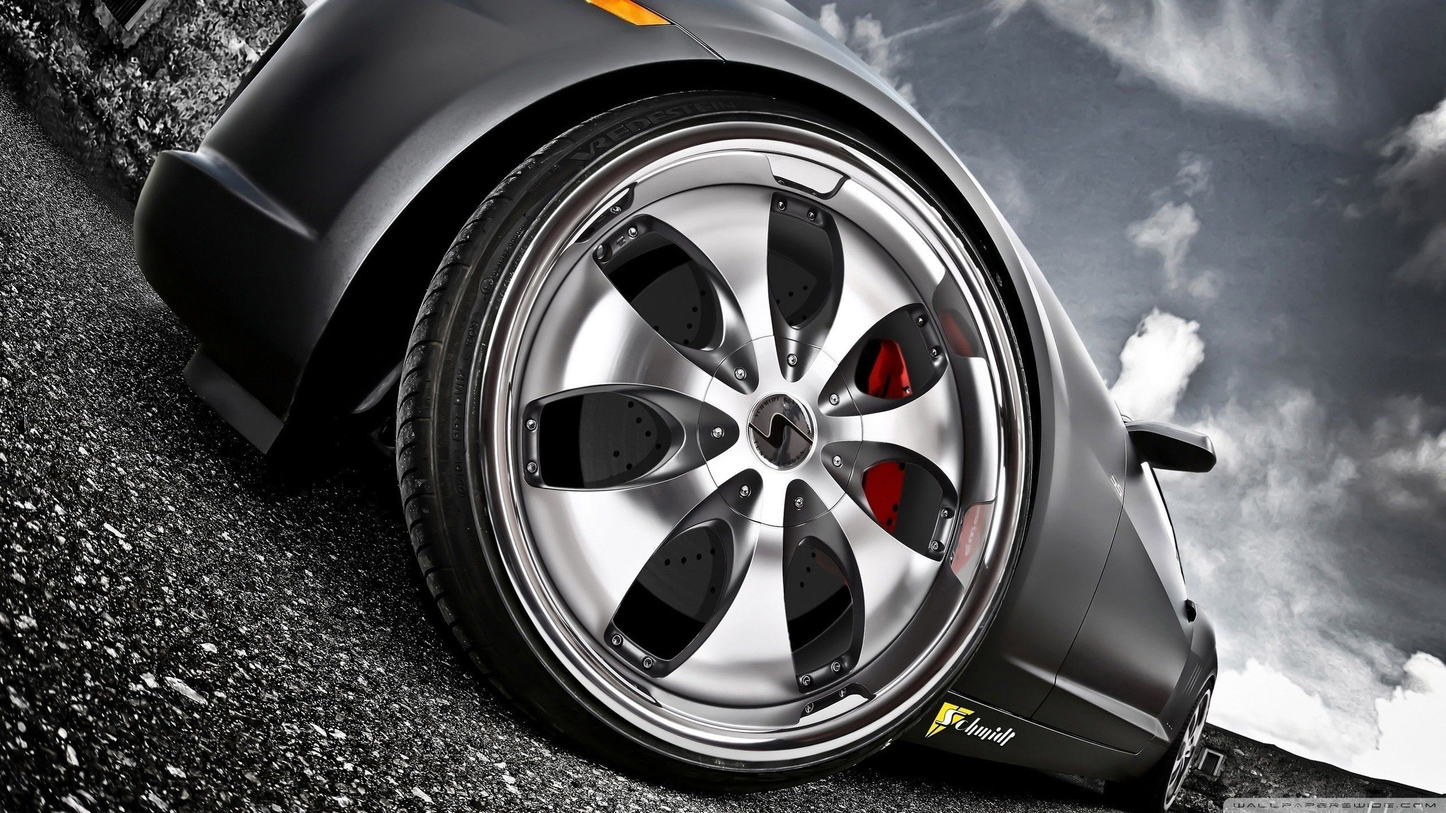
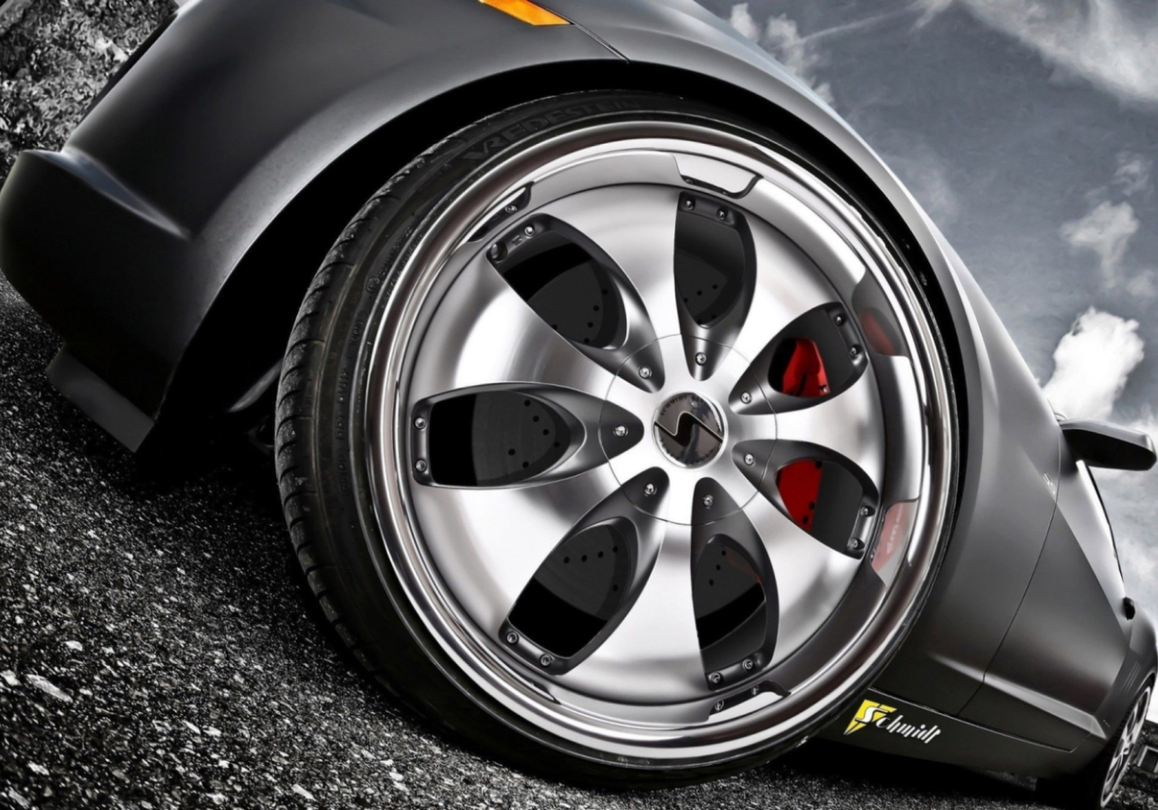
js jav

diff --git a/js/banner.js b/js/banner.js
@@ -3,13 +3,16 @@ const leftBtn = document.getElementById("left");
 const rightBtn = document.getElementById("right");
 
 const img = document.querySelectorAll("#imgs img");
-
+const container=document.getElementById("carousel")
 let idx = 0;
+let width = 0;
+let width2 = 0;
 
 let interval = setInterval(run, 2000);
 
 function run() {
   idx++;
+  width2++;
   changeImage();
 }
 

diff --git a/style.css b/style.css
@@ -199,16 +199,16 @@ ul, li{
 
 
 #carimg{
-  width: 100%;
-  height: 100%;
+  max-height: calc(100%);
+  width: calc(100%);
   object-fit: cover;
   margin: auto auto;
 }
 
 .carousel{
 box-shadow: 2px 2px 5px rgba(0, 0, 0, 0.3);
-height: 100%;
-width: 90%;
+max-height: calc(100% - 5vw);
+width: calc(90% - 5vw);
 overflow: hidden;
 margin-top: 30px;
 margin-left: auto;
